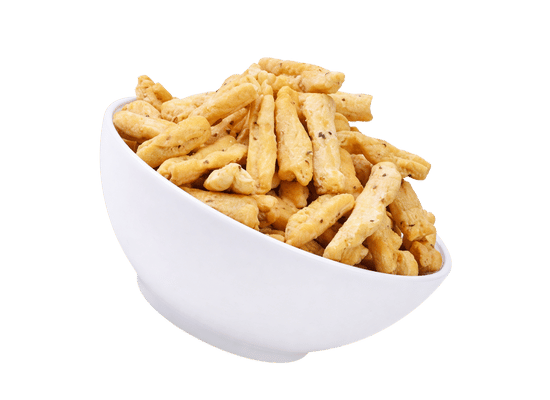
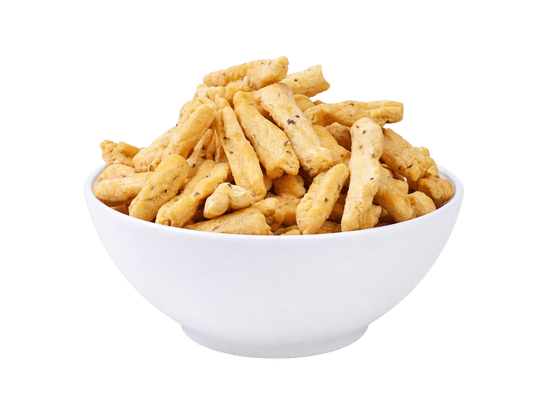
data2

diff --git a/index.html b/index.html
@@ -84,7 +84,7 @@
                             </div>
                         </div>
                         <div class="veggie_basket_details--wrapper">
-                            <p>
+                            <p style="text-transform: capitalize !important;">
                                 <strong>Based in Gandhinagar (Zank GIDC), Gujarat, Jill Snacks & More</strong> is a
                                 premium snack brand dedicated to crafting high-quality, better snacks for everyday
                                 enjoyment. We believe that better living begins with better choices, which is why we
@@ -105,7 +105,7 @@
                                 </div>
                                 <div class="theme_package--wrapper">
                                     <h3 class="studio_title">
-                                        THE FUTURE OF ONLINE SNACK SHOPPING
+                                        THE FUTURE OF SNACKS
                                     </h3>
                                     <div class="theme_date--wrapper">
                                         <span class="year">2026</span>
@@ -163,7 +163,7 @@
                     </div>
                     <div class="col-md-4 p-0">
                         <div class="why_choose_us--right why-empty-box" style="border-radius: 0px;">
-                            <img src="images/media/shape/shape_1.png" alt="">
+                            <img src="images/media/shape/2_slide.png" alt="">
                         </div>
                     </div>
                 </div>
@@ -172,22 +172,22 @@
                         <div class="features-grid">
                             <div class="feature-card">
                                 <i class="fas fa-certificate"></i>
-                                <h3>Premium quality ingredients</h3>
+                                <h3>Carefully Picked Ingredients</h3>
                             </div>
                             <div class="verticle-line"></div>
-                            <div class="feature-card" style="margin-top: 30px;">
+                            <div class="feature-card">
                                 <i class="fas fa-pepper-hot"></i>
-                                <h3>Bold and memorable taste</h3>
+                                <h3>Bold and Memorable Taste</h3>
                             </div>
                             <div class="verticle-line"></div>
-                            <div class="feature-card" style="margin-top: 55px;">
+                            <div class="feature-card">
                                 <i class="fas fa-leaf"></i>
-                                <h3>Fresh crunch in every bite</h3>
+                                <h3>Fresh Crunch in Every Bite</h3>
                             </div>
                             <div class="verticle-line"></div>
-                            <div class="feature-card" style="margin-top: 70px;">
+                            <div class="feature-card">
                                 <i class="fas fa-box-open"></i>
-                                <h3>Available in retail and bulk packaging</h3>
+                                <h3>Available in Retail and Bulk Packaging</h3>
                             </div>
                         </div>
                     </div>
@@ -219,8 +219,8 @@
                                         </span>
                                         <h3 class="item_title" data-aos="zoom-in" data-aos-delay="300">
                                             Traditional <br> Farsan</h3>
-                                        <h5 class="item_subtitle">Creatively designed for<br>online vegetable shop</h5>
-                                        <div class="view_demo--wrapper">
+                                        <!-- <h5 class="item_subtitle">Creatively designed for<br>online vegetable shop</h5> -->
+                                        <div class="view_demo--wrapper mt-4">
                                             <a href="#" class="view_demo--btn">View More</a>
                                         </div>
                                         <span class="item_two" data-aos="zoom-in" data-aos-delay="500">
@@ -235,7 +235,7 @@
                     <div class="col-lg-3 theme_demo--col">
                         <div class="theme_demo--wrapper">
                             <div class="theme_number--wrapper">
-                                <span class="theme_number">01</span>
+                                <span class="theme_number">Traditional <br> Farsan</span>
                                 <!-- <span class="theme_demo">Traditional Farsan</span> -->
                             </div>
                             <div class="online_theme--wrapper">
@@ -259,7 +259,7 @@
                     <div class="col-lg-3 theme_demo--col">
                         <div class="theme_demo--wrapper theme_demo--wrapper1">
                             <div class="theme_number--wrapper theme_number--wrapper1">
-                                <span class="theme_number">02</span>
+                                <span class="theme_number">Sev & <br> Bhujiya</span>
                                 <!-- <span class="theme_demo">Traditional Farsan</span> -->
                             </div>
                             <div class="online_theme--wrapper online_theme--wrapper1">
@@ -285,8 +285,8 @@
                                         </span>
                                         <h3 class="item_title" data-aos="zoom-in" data-aos-delay="300">
                                             Sev & <br> Bhujiya</h3>
-                                        <h5 class="item_subtitle">Creatively designed for<br>online vegetable shop</h5>
-                                        <div class="view_demo--wrapper">
+                                        <!-- <h5 class="item_subtitle">Creatively designed for<br>online vegetable shop</h5> -->
+                                        <div class="view_demo--wrapper mt-4">
                                             <a href="#" class="view_demo--btn">View More</a>
                                         </div>
                                         <span class="item_two" data-aos="zoom-in" data-aos-delay="500">
@@ -325,8 +325,8 @@
                                         </span>
                                         <h3 class="item_title" data-aos="zoom-in" data-aos-delay="300">
                                             Mixes &<br>Chivda</h3>
-                                        <h5 class="item_subtitle">Creatively designed for<br>online vegetable shop</h5>
-                                        <div class="view_demo--wrapper">
+                                        <!-- <h5 class="item_subtitle">Creatively designed for<br>online vegetable shop</h5> -->
+                                        <div class="view_demo--wrapper mt-4">
                                             <a href="#" class="view_demo--btn">View More</a>
                                         </div>
                                         <span class="item_two" data-aos="zoom-in" data-aos-delay="500">
@@ -341,7 +341,7 @@
                     <div class="col-lg-3 theme_demo--col">
                         <div class="theme_demo--wrapper">
                             <div class="theme_number--wrapper">
-                                <span class="theme_number">03</span>
+                                <span class="theme_number">Mixes & <br> Chivda</span>
                                 <!-- <span class="theme_demo">Traditional Farsan</span> -->
                             </div>
                             <div class="online_theme--wrapper">
@@ -365,7 +365,7 @@
                     <div class="col-lg-3 theme_demo--col">
                         <div class="theme_demo--wrapper theme_demo--wrapper1">
                             <div class="theme_number--wrapper theme_number--wrapper1">
-                                <span class="theme_number">04</span>
+                                <span class="theme_number">Soya & <br> Light Snacks</span>
                                 <!-- <span class="theme_demo">Traditional Farsan</span> -->
                             </div>
                             <div class="online_theme--wrapper online_theme--wrapper1">
@@ -391,8 +391,8 @@
                                         </span>
                                         <h3 class="item_title" data-aos="zoom-in" data-aos-delay="300">
                                             Soya & <br> Light Snacks</h3>
-                                        <h5 class="item_subtitle">Creatively designed for<br>online vegetable shop</h5>
-                                        <div class="view_demo--wrapper">
+                                        <!-- <h5 class="item_subtitle">Creatively designed for<br>online vegetable shop</h5> -->
+                                        <div class="view_demo--wrapper mt-4">
                                             <a href="#" class="view_demo--btn">View More</a>
                                         </div>
                                         <span class="item_two" data-aos="zoom-in" data-aos-delay="500">
@@ -413,7 +413,7 @@
 
         <!-- ========== landing-page: demo-5-starts =========== -->
 
-        <section class="demo_main--wrapper">
+        <section class="demo_main--wrapper" style="padding-bottom: 5.5rem;">
             <div class="container">
                 <div class="row main_row">
                     <div class="col-lg-9 theme_col">
@@ -431,8 +431,8 @@
                                         </span>
                                         <h3 class="item_title" data-aos="zoom-in" data-aos-delay="300">
                                             Dal & <br> Crunchy Snacks</h3>
-                                        <h5 class="item_subtitle">Creatively designed for<br>online vegetable shop</h5>
-                                        <div class="view_demo--wrapper">
+                                        <!-- <h5 class="item_subtitle">Creatively designed for<br>online vegetable shop</h5> -->
+                                        <div class="view_demo--wrapper mt-4">
                                             <a href="#" class="view_demo--btn">View More</a>
                                         </div>
                                         <span class="item_two" data-aos="zoom-in" data-aos-delay="500">
@@ -446,7 +446,7 @@
                     <div class="col-lg-3 theme_demo--col">
                         <div class="theme_demo--wrapper">
                             <div class="theme_number--wrapper">
-                                <span class="theme_number">05</span>
+                                <span class="theme_number">Dal & <br> Crunchy Snacks</span>
                                 <!-- <span class="theme_demo">Traditional Farsan</span> -->
                             </div>
                             <div class="online_theme--wrapper">

diff --git a/css/pages/landing-page.css b/css/pages/landing-page.css
@@ -237,7 +237,7 @@
 .shopping_img1--wrapper {
   max-width: 120px;
   width: 100%;
-  margin: 0 auto 0 3rem;
+  margin: 0 0 3rem;
   position: relative;
   z-index: 1;
 }
@@ -264,8 +264,8 @@
 }
 .shopping_img2--wrapper img {
   position: absolute;
-  right: 0;
-  bottom: 0;
+  right: -30px;
+  bottom: 60px;
 }
 .buy_theme-wrapper {
   position: relative;
@@ -542,7 +542,7 @@
   margin-right: -15px;
 }
 .inner_details--wrapper {
-  padding: 3.5rem 1rem 4.5rem;
+  padding: 1.5rem 1rem 4.5rem;
   position: relative;
 }
 .inner_details--wrapper .item_title {
@@ -608,7 +608,7 @@
     padding: 0.5rem 1rem 3.5rem;
   }
   .theme_number--wrapper .theme_number {
-    font-size: 130px;
+    font-size: 54px;
   }
   .theme_number--wrapper .theme_demo {
     font-size: 30px;
@@ -707,17 +707,17 @@
   }
   .inner_details--wrapper .item_one {
     top: -1rem;
-    right: -12rem;
+    right: 3rem;
   }
   .theme_demo--wrapper {
-    margin-left: 6.25rem;
+    margin-left: 3.25rem;
   }
   .theme_demo--wrapper1 {
     margin-right: 6.25rem !important;
     margin-left: 0 !important;
   }
   .theme_number--wrapper::after {
-    right: -15.1rem;
+    right: -11.6rem;
   }
   .theme_number--wrapper1::after {
     left: -15.1rem !important;
@@ -1186,7 +1186,7 @@
     padding: 1rem 0rem;
   }
   .theme_number--wrapper .theme_number {
-    font-size: 70px;
+    font-size: 45px;
   }
 }
 /* Footer */
@@ -1570,11 +1570,13 @@
 }
 
 .why_choose_us--title {
-    font-family: var(--bebas);
+    font-family: var(--roboto);
     font-size: 5rem;
     color: var(--white);
     margin: 0;
     line-height: 1;
+    text-transform: capitalize !important;
+    font-weight: 900;
 }
 
 .why-empty-box {
@@ -1670,7 +1672,7 @@
     line-height: 1;
     color: var(--white);
     margin: 0;
-    text-transform: uppercase;
+    text-transform: lowercase !important;
     letter-spacing: 0.04em;
 }
 
@@ -1697,6 +1699,13 @@
     }
     .why_choose_us--title {
         font-size: 80px;
+    }
+}
+
+@media (max-width: 767px) {
+    .why_choose_us--right.why-empty-box {
+        min-height: 100px !important;
+        height: 100px !important;
     }
 }
 

diff --git a/css/main.css b/css/main.css
@@ -56,6 +56,7 @@
     --roboto: "Roboto", sans-serif;
     --montserrat: "Montserrat", sans-serif;
     --bebas: "Bebas Neue", sans-serif;
+    --bebas1: "Bebas Neue";
     --playfair: 'Playfair Display', serif;
     --josefin: 'Josefin Sans', sans-serif;
     --frank-ruhl-libre: 'Frank Ruhl Libre', serif;
